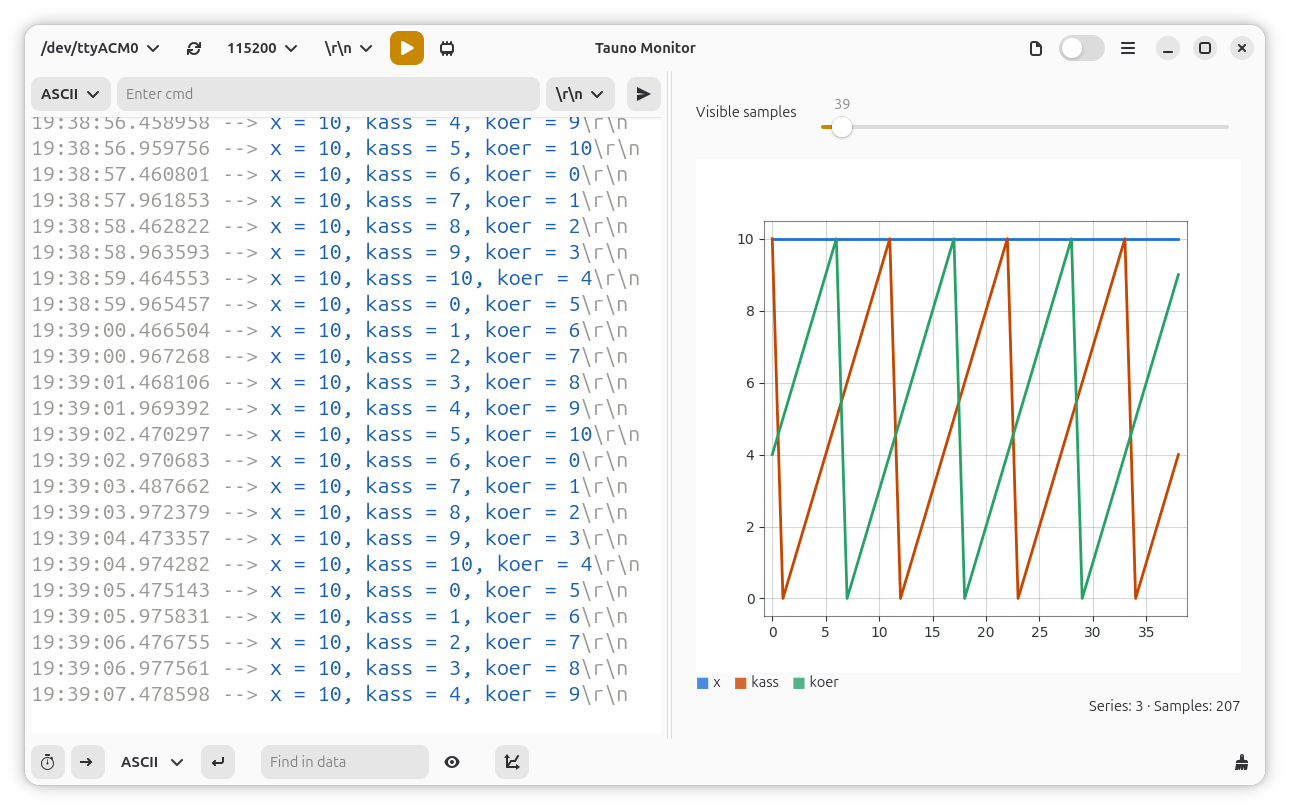
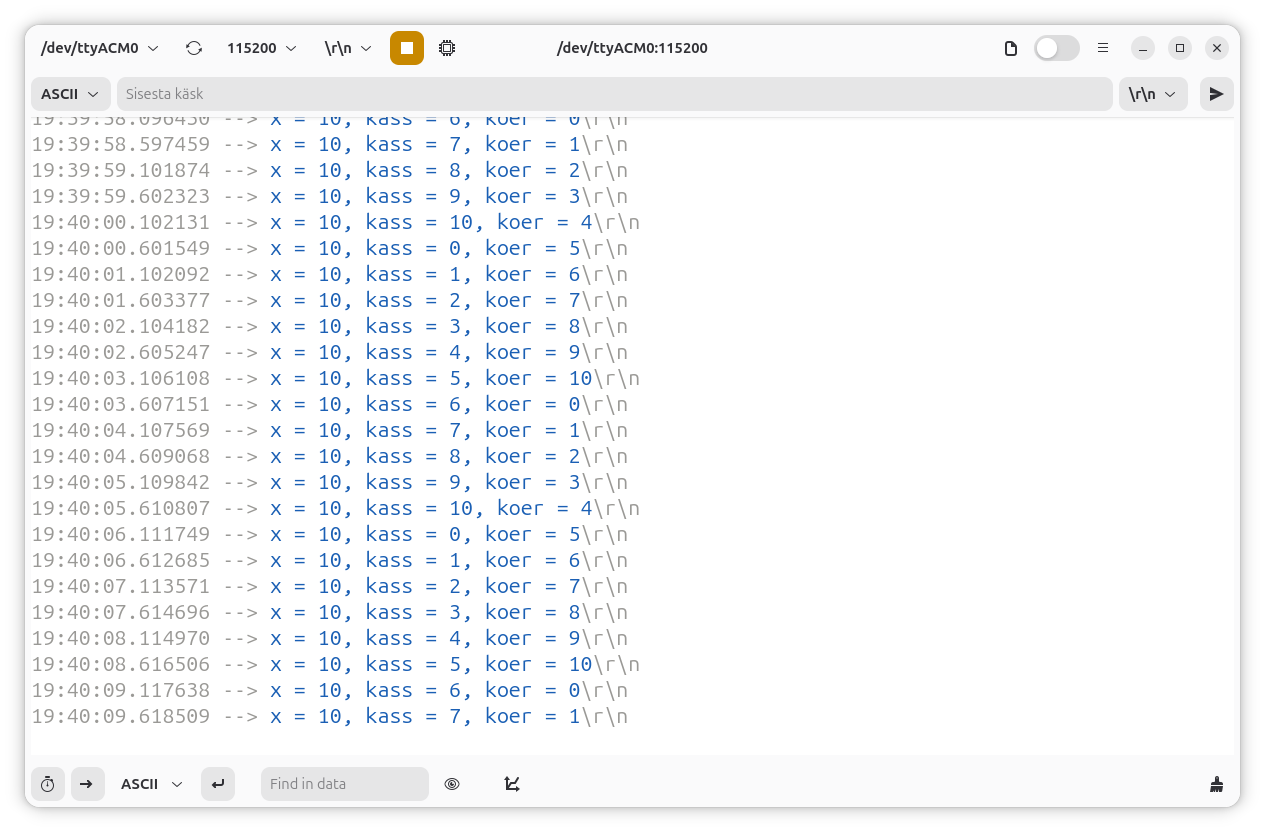
screenshots

diff --git a/README.md b/README.md
@@ -37,7 +37,15 @@ snap connect tauno-monitor:raw-usb
 
 ![Light mode](data/screenshots/light.png)
 
+![Light mode](data/screenshots/light-plot-1.png)
+
+![Light mode](data/screenshots/light-plot-2.png)
+
+![Light mode](data/screenshots/light-plot-2.png)
+
 ![Dark mode](data/screenshots/dark.png)
+
+![Light mode](data/screenshots/dark-plot-2.png)
 
 ![Preferences window](data/screenshots/pref.png)
 
